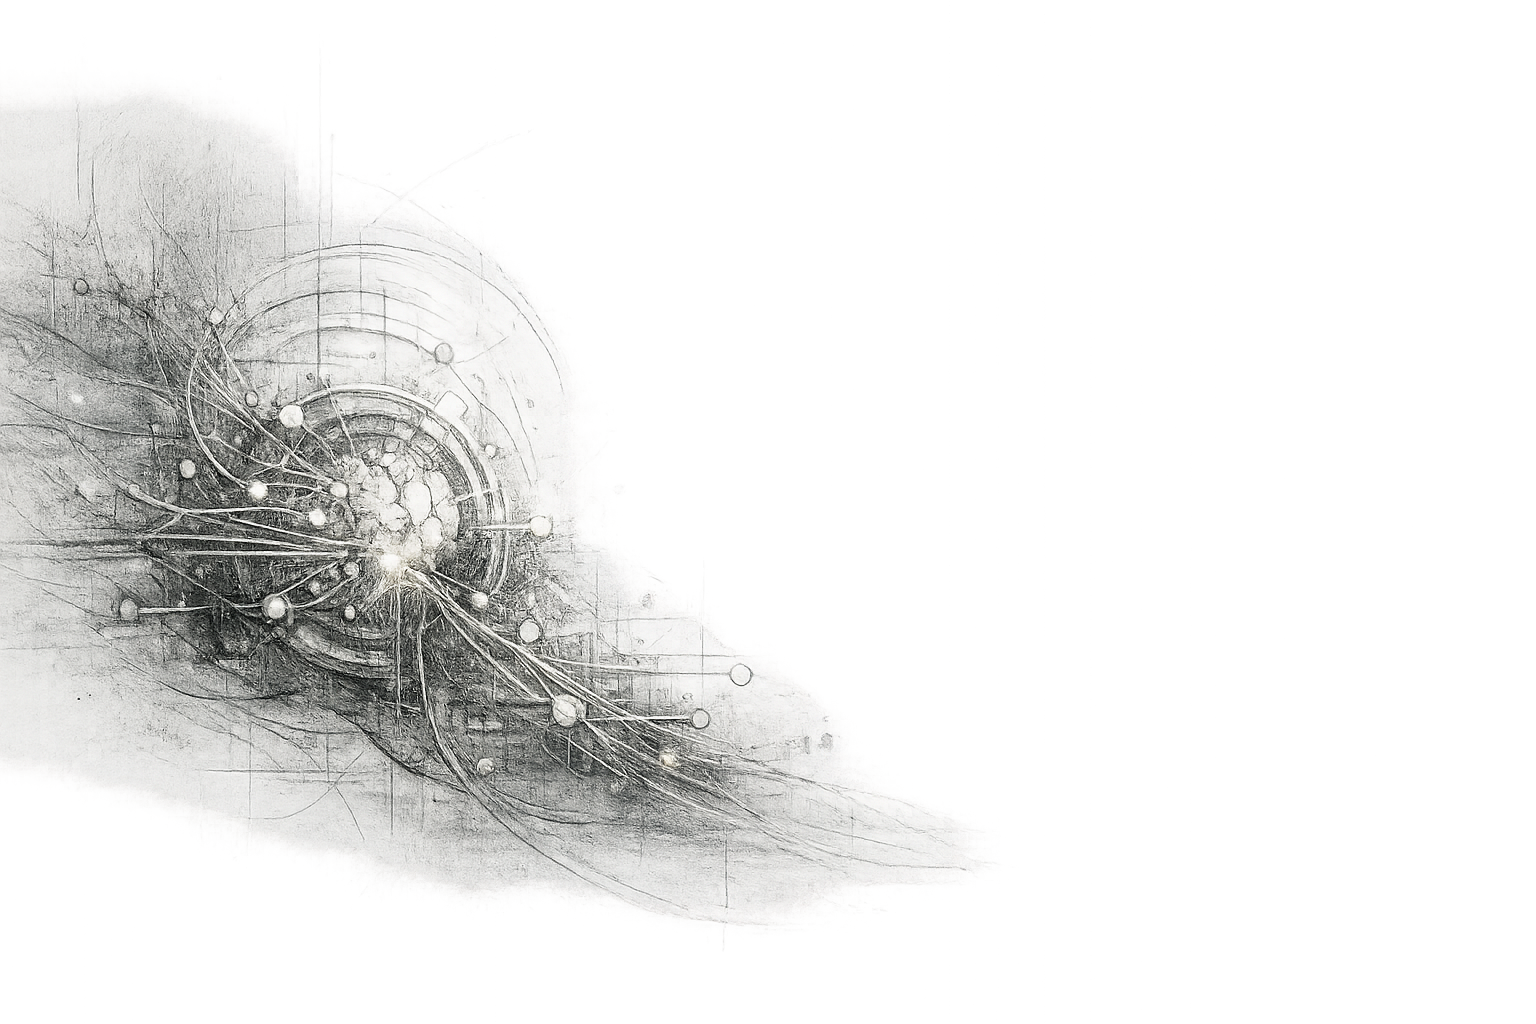
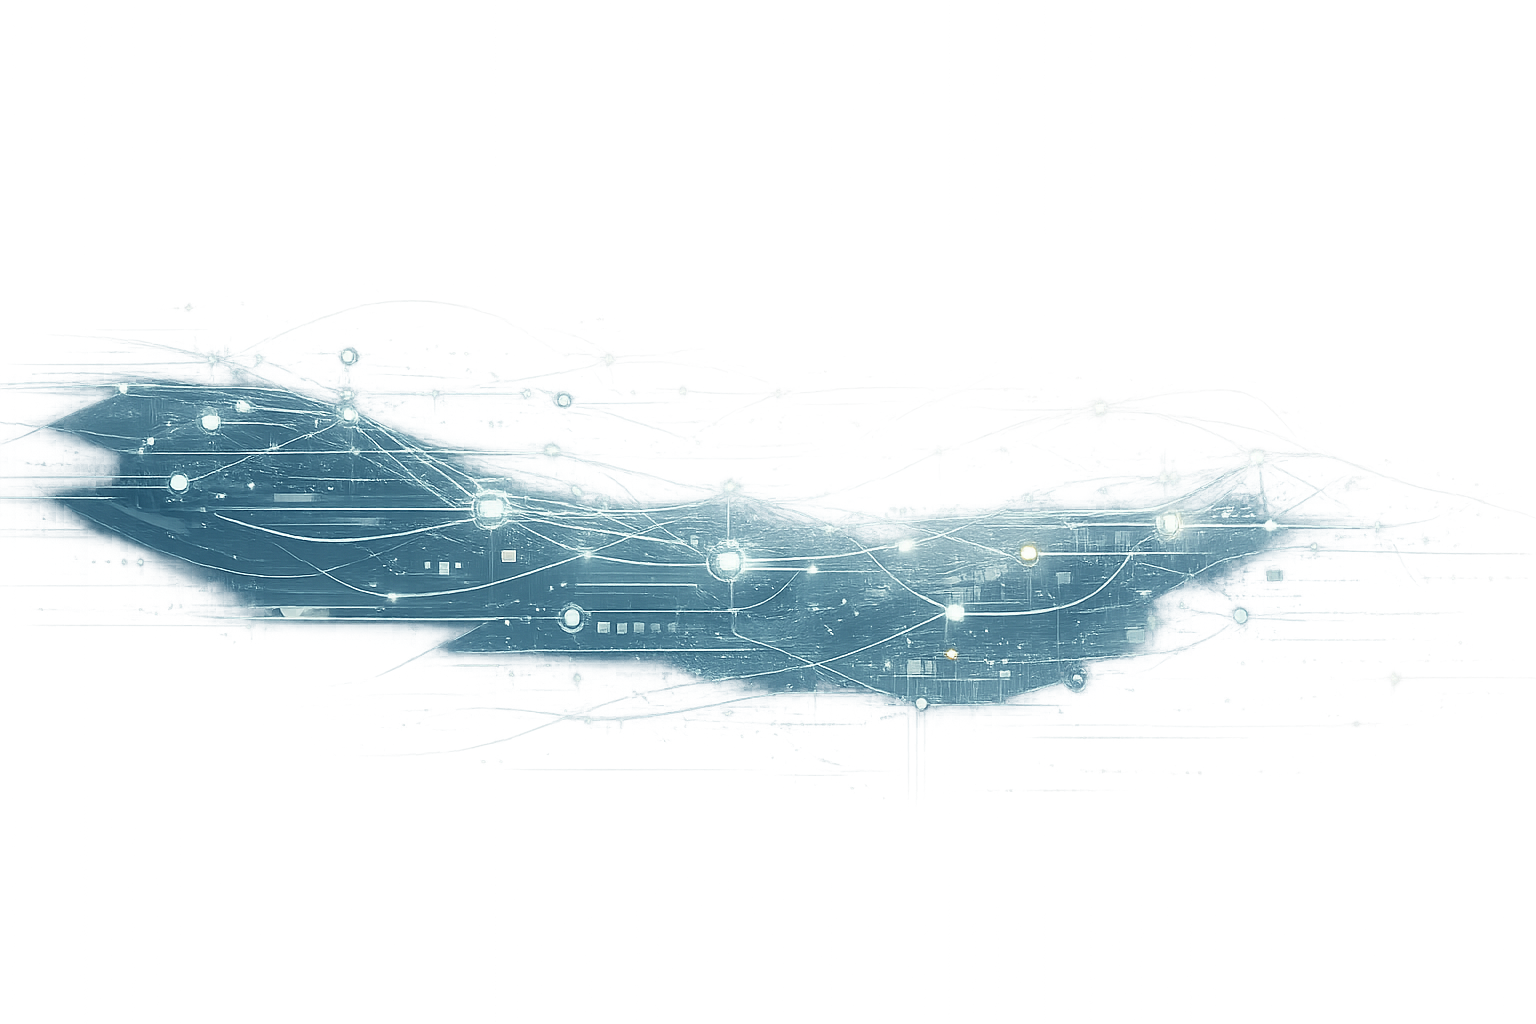
feat: refine topbar layout and update branding asset

diff --git a/frontend/src/components/layout/Topbar.jsx b/frontend/src/components/layout/Topbar.jsx
@@ -39,16 +39,12 @@ const Topbar = () => {
 
             {/* LEFT SECTION - SYSTEM IDENTITY (Optimized short copy) */}
             <div className="topbar-left">
-                <h1 className="system-identity-title">
-                    Supply Chain Agent
-                </h1>
+
                 <div className="system-status-group">
                     <div className="agent-status-indicator active">
-                        <span className="status-dot"></span>
-                        <span className="status-label">3 Active</span>
+
                     </div>
-                    <span className="status-divider">|</span>
-                    <span className="system-ready-text">Monitoring</span>
+
                 </div>
             </div>
 
